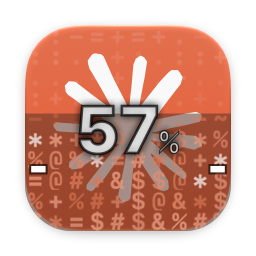
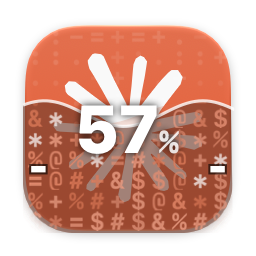
水面恢復流動波浪（前後兩層＋亮線），數字拿掉描邊

Changed region(s): [[0.0625, 0.375, 0.9062, 0.8125], [0.125, 0.8125, 0.8125, 0.9375], [0.8125, 0.8125, 0.875, 0.875]]

diff --git a/Sources/UsageMeter/main.swift b/Sources/UsageMeter/main.swift
@@ -165,18 +165,33 @@ func renderIcon(kind: Kind, base: NSImage?, short: Double?, long: Double?, phase
             shape.addClip()
         }
 
-        // 只有用掉的部分（水位以下）壓暗＋染色，上面維持原圖示：多少 % 就滿到多少
-        let filled = NSRect(x: body.minX, y: body.minY, width: body.width, height: body.height * p)
-        NSColor.black.withAlphaComponent(0.40).setFill()
-        filled.fill()
+        // 只有用掉的部分（水位以下）壓暗＋染色，上面維持原圖示：多少 % 就滿到多少；水面是流動的波浪
+        let waterLevel = body.minY + body.height * p
+        let amp = p > 0.01 && p < 0.99 ? s * 0.05 : 0
+        func waveY(_ x: CGFloat, _ offset: CGFloat = 0, _ a: CGFloat? = nil, _ dir: CGFloat = 1) -> CGFloat {
+            waterLevel + sin((x - body.minX) / body.width * .pi * 2 * 1.3 + phase * dir + offset) * (a ?? amp)
+        }
+        func wave(_ offset: CGFloat, _ a: CGFloat, _ dir: CGFloat = 1) -> NSBezierPath {
+            let path = NSBezierPath()
+            path.move(to: NSPoint(x: body.minX - 2, y: body.minY - 2))
+            var x = body.minX - 2
+            while x <= body.maxX + 2 { path.line(to: NSPoint(x: x, y: waveY(x, offset, a, dir))); x += s / 64 }
+            path.line(to: NSPoint(x: body.maxX + 2, y: body.minY - 2))
+            path.close()
+            return path
+        }
         color.withAlphaComponent(0.22).setFill()
-        filled.fill()
+        wave(.pi * 0.7, amp * 0.8, -0.7).fill()      // 後層反向流
+        let front = wave(0, amp)
+        NSColor.black.withAlphaComponent(0.40).setFill()
+        front.fill()
+        color.withAlphaComponent(0.22).setFill()
+        front.fill()
 
         // ASCII 格子：用掉的部分由密字元填滿、隨機跳字＋白色閃光；水面那排淡字元翻騰；空的部分只留淡點
         let cols = 10
         let area = body
         let cell = area.width / CGFloat(cols)
-        let level = area.minY + area.height * p
         let tick = Int(phase * 4)                       // 每秒約 13 次換字
         let glyph = NSFont.monospacedSystemFont(ofSize: cell * 1.15, weight: .bold)
         func rnd(_ c: Int, _ r: Int, _ k: Int) -> CGFloat {
@@ -193,6 +208,7 @@ func renderIcon(kind: Kind, base: NSImage?, short: Double?, long: Double?, phase
                 let k = tick + (c * 7 + r * 13) % 5      // 每格換字的節拍錯開
                 let x = rnd(c, r, k / 2)
                 var ch: Character, col: NSColor, key: String, alpha: CGFloat
+                let level = waveY(rect.midX)
                 if rect.maxY <= level {
                     if rnd(c, r, tick &* 3 &+ 1) < 0.05 {
                         ch = "*"; col = .white; key = "w"; alpha = 0.7
@@ -210,11 +226,26 @@ func renderIcon(kind: Kind, base: NSImage?, short: Double?, long: Double?, phase
                     col = .white; key = "w"; alpha = 0.06 + 0.06 * rnd(c, r, k)
                 }
                 cg.setAlpha(alpha)
-                cg.draw(glyphImage(ch, col, glyph, cell, key), in: rect)
+                if rect.minY < level && rect.maxY > level {      // 水面那格只畫在波浪下
+                    cg.saveGState(); front.addClip()
+                    cg.draw(glyphImage(ch, col, glyph, cell, key), in: rect)
+                    cg.restoreGState()
+                } else {
+                    cg.draw(glyphImage(ch, col, glyph, cell, key), in: rect)
+                }
             }
         }
 
         cg.restoreGState()
+
+        // 水面亮線
+        let crest = NSBezierPath()
+        var cx = body.minX - 2
+        crest.move(to: NSPoint(x: cx, y: waveY(cx)))
+        while cx <= body.maxX + 2 { cx += s / 64; crest.line(to: NSPoint(x: cx, y: waveY(cx))) }
+        crest.lineWidth = s * 0.012
+        NSColor.white.withAlphaComponent(amp > 0 ? 0.8 : 0).setStroke()
+        crest.stroke()
 
         // 7 天刻度：兩側的小括號
         if let long {
@@ -237,10 +268,8 @@ func renderIcon(kind: Kind, base: NSImage?, short: Double?, long: Double?, phase
         shadow.shadowColor = NSColor.black.withAlphaComponent(0.85)
         shadow.shadowBlurRadius = s * 0.03
         let font = NSFont.monospacedSystemFont(ofSize: s * 0.26, weight: .heavy)
-        let str = NSMutableAttributedString(string: num, attributes: [.font: font, .foregroundColor: NSColor.white, .shadow: shadow,
-                                                                        .strokeColor: NSColor.black.withAlphaComponent(0.7), .strokeWidth: -4])
-        str.append(NSAttributedString(string: "%", attributes: [.font: NSFont.monospacedSystemFont(ofSize: s * 0.12, weight: .bold), .foregroundColor: NSColor.white, .shadow: shadow,
-                                                                        .strokeColor: NSColor.black.withAlphaComponent(0.7), .strokeWidth: -4]))
+        let str = NSMutableAttributedString(string: num, attributes: [.font: font, .foregroundColor: NSColor.white, .shadow: shadow])
+        str.append(NSAttributedString(string: "%", attributes: [.font: NSFont.monospacedSystemFont(ofSize: s * 0.12, weight: .bold), .foregroundColor: NSColor.white.withAlphaComponent(0.85), .shadow: shadow]))
         let sz = str.size()
         str.draw(at: NSPoint(x: body.midX - sz.width / 2, y: body.midY - sz.height / 2))
         return true
@@ -373,7 +402,7 @@ final class Overlay {
         let to = primary?.pct ?? 0
         shown += (to - shown) * (1 - pow(0.88, dt * 30))
         if abs(to - shown) < 0.05 { shown = to }
-        let t = Int(phase * 4)
+        let t = Int(phase * 12)                          // 約 38 次/秒重畫，波浪才順；字元仍約 13 次/秒換
         if t != lastTick || abs(shown - lastLevel) > 0.01 {
             lastTick = t; lastLevel = shown
             layer.contents = renderImage(kind: kind, level: shown, tick: usage.short == nil ? nil : usage.long?.pct, phase: phase)
